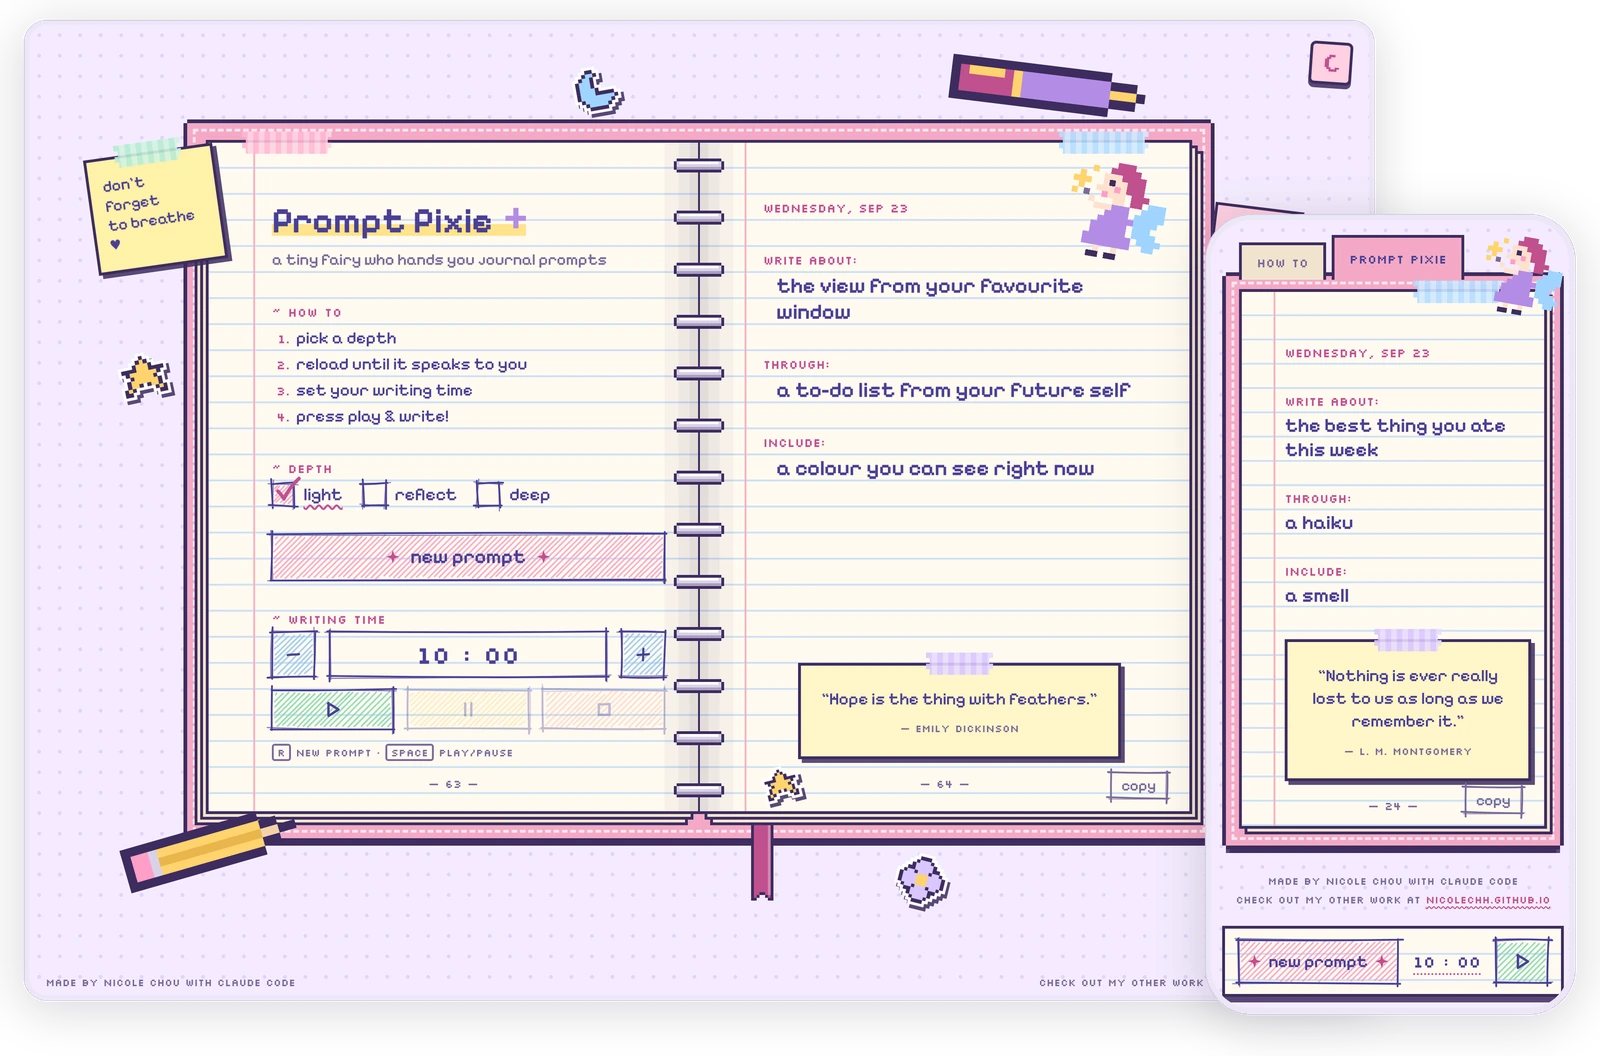
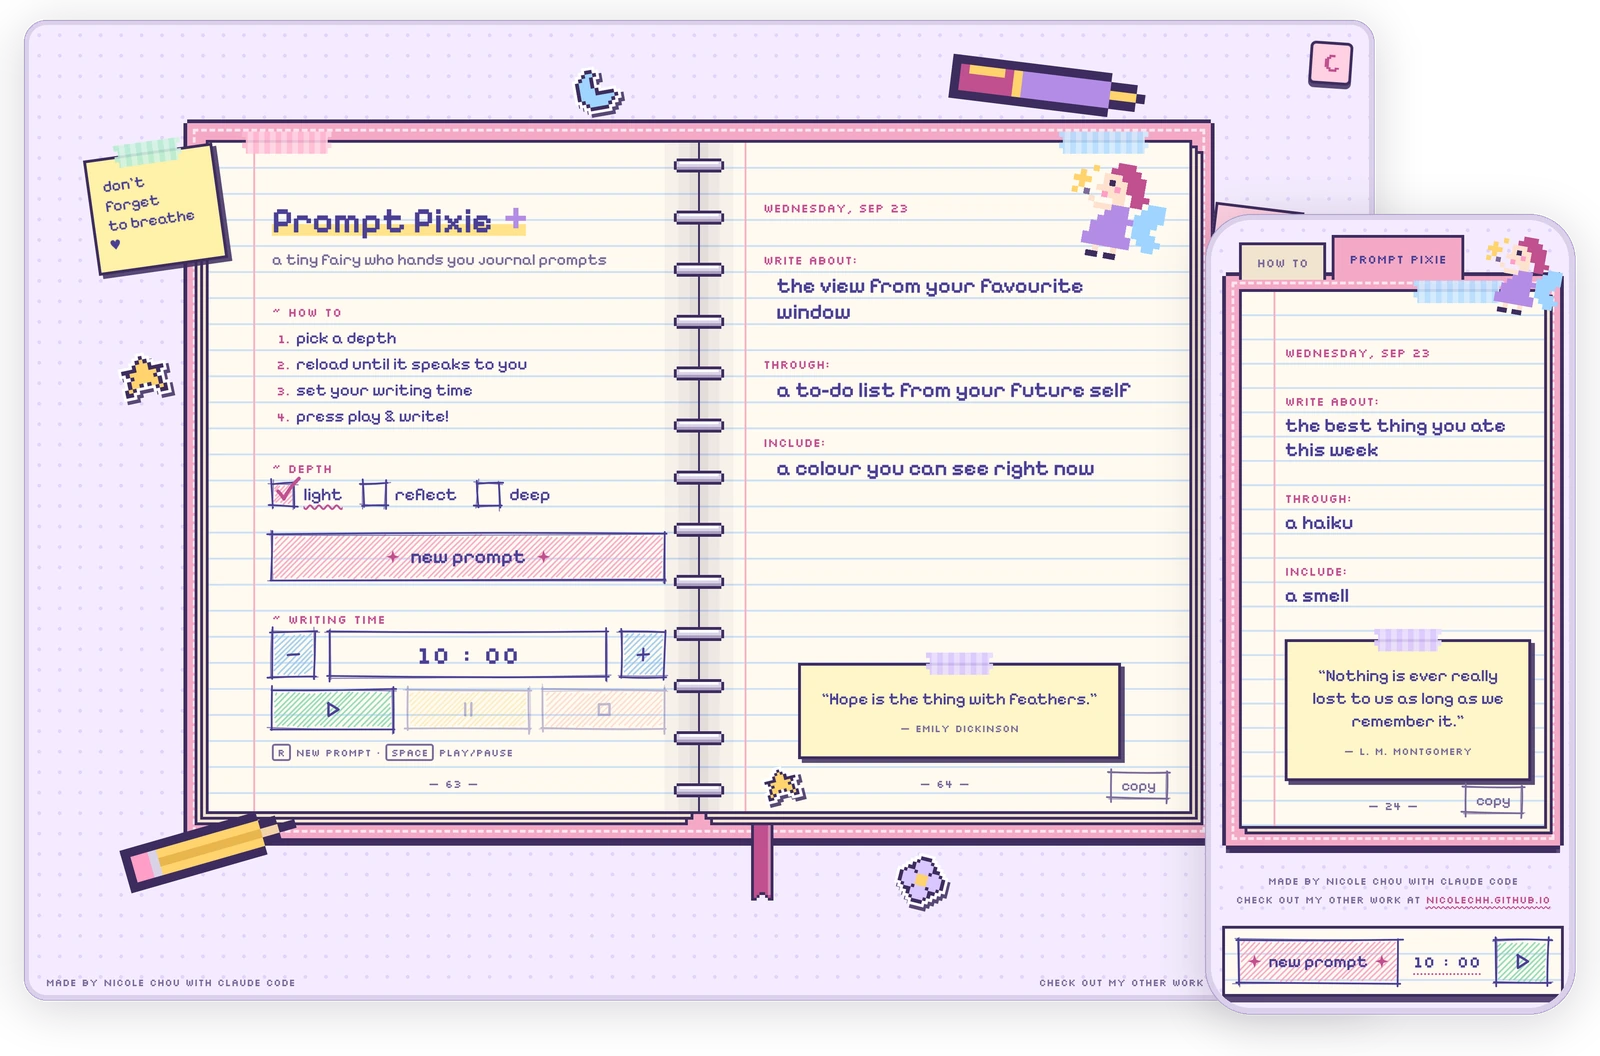
Prompt Pixie: tabbed layout below 1100px, darker thumbnail frames
Windows too narrow for a readable two-page spread now get the tabbed
single-page layout (capped at 600px wide), and the card thumbnail's
device frames are a touch darker.

diff --git a/pixie/app.js b/pixie/app.js
@@ -6,6 +6,9 @@
   const STAR_COLORS = ["var(--star-1)", "var(--star-2)", "var(--star-3)", "var(--star-4)"];
   const reduceMotion = window.matchMedia("(prefers-reduced-motion: reduce)").matches;
 
+  // matches the tabbed single-page layout breakpoint in styles.css
+  const isTabbed = () => window.matchMedia("(max-width: 1100px)").matches;
+
   const store = {
     get(k) { try { return localStorage.getItem(k); } catch (e) { return null; } },
     set(k, v) { try { localStorage.setItem(k, v); } catch (e) {} },
@@ -371,7 +374,7 @@
 
   $("reload").addEventListener("click", (e) => {
     burstFrom(e.currentTarget, 8);
-    if (isPhone()) setTab("prompt");
+    if (isTabbed()) setTab("prompt");
     generate();
   });
 
@@ -504,7 +507,7 @@
   $("minus").addEventListener("click", () => setMinutes(minutes - 1));
   $("play").addEventListener("click", () => {
     play();
-    if (isPhone()) setTab("prompt");
+    if (isTabbed()) setTab("prompt");
   });
   $("pause").addEventListener("click", pause);
   $("stop").addEventListener("click", stop);
@@ -633,7 +636,7 @@
   const desk = document.querySelector(".desk");
   function fitDesk() {
     desk.style.zoom = "";
-    if (window.innerWidth <= 900) return;
+    if (isTabbed()) return;
     const cs = getComputedStyle(document.body);
     const availH = window.innerHeight - parseFloat(cs.paddingTop) - parseFloat(cs.paddingBottom);
     const scale = Math.min(1, availH / desk.offsetHeight);
@@ -669,12 +672,12 @@
 
 
   /* ---------- Phone tabs: "how to" and "prompt pixie" ---------- */
-  const isPhone = () => window.matchMedia("(max-width: 900px)").matches;
+
   const tabButtons = document.querySelectorAll(".tab");
   function setTab(name) {
     document.body.dataset.tab = name;
     tabButtons.forEach((t) => t.setAttribute("aria-selected", String(t.dataset.tab === name)));
-    if (isPhone()) window.scrollTo(0, 0);
+    if (isTabbed()) window.scrollTo(0, 0);
   }
   tabButtons.forEach((t) => t.addEventListener("click", () => setTab(t.dataset.tab)));
   // arrow keys move between tabs, as tablists do
@@ -691,7 +694,7 @@
     touchY = e.touches[0].clientY;
   }, { passive: true });
   document.querySelector(".book").addEventListener("touchend", (e) => {
-    if (touchX === null || !isPhone()) return;
+    if (touchX === null || !isTabbed()) return;
     const dx = e.changedTouches[0].clientX - touchX;
     const dy = e.changedTouches[0].clientY - touchY;
     touchX = null;

diff --git a/pixie/styles.css b/pixie/styles.css
@@ -708,7 +708,10 @@ dd.is-typing::after { content: "▌"; color: var(--accent); animation: blink 0.7
   .deco-note-1 { left: -40px; top: -58px; }
   .deco-pencil { left: -30px; }
 }
-@media (max-width: 900px) {
+/* Tabbed single-page layout: phones, tablets and narrow windows where the
+   two-page spread would have to shrink too far to stay readable */
+@media (max-width: 1100px) {
+  .desk { max-width: 600px; }
   body { padding: 16px 16px 56px; place-items: start center; }
   .theme-toggle { display: none; }
   .book { grid-template-columns: 1fr; padding: 14px 14px 18px; }
@@ -784,7 +787,8 @@ dd.is-typing::after { content: "▌"; color: var(--accent); animation: blink 0.7
   .quickbar {
     position: fixed;
     z-index: 25;
-    left: 12px; right: 12px;
+    left: max(12px, calc(50% - 300px));
+    right: max(12px, calc(50% - 300px));
     bottom: calc(12px + env(safe-area-inset-bottom));
     display: grid;
     grid-template-columns: 1fr auto 56px;

diff --git a/pixie/index.html b/pixie/index.html
@@ -9,7 +9,7 @@
   <link rel="preconnect" href="https://fonts.googleapis.com" />
   <link rel="preconnect" href="https://fonts.gstatic.com" crossorigin />
   <link href="https://fonts.googleapis.com/css2?family=Silkscreen&family=Pixelify+Sans:wght@400;500;600&display=swap" rel="stylesheet" />
-  <link rel="stylesheet" href="styles.css?v=a6c7f699" />
+  <link rel="stylesheet" href="styles.css?v=84341ea5" />
   <script>
     // Apply saved theme before paint to avoid a flash
     try {
@@ -203,6 +203,6 @@
   </footer>
 
   <script src="prompts.js?v=30d8b973"></script>
-  <script src="app.js?v=3a6940f8"></script>
+  <script src="app.js?v=1a3f6e4c"></script>
 </body>
 </html>
